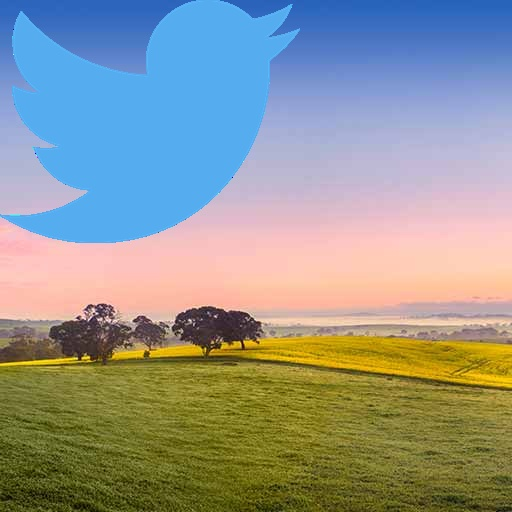
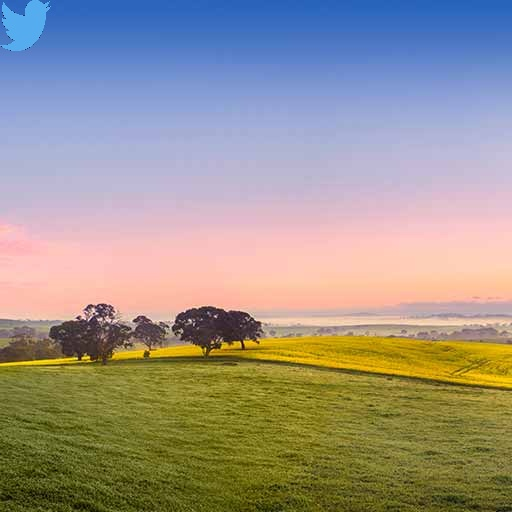
Resizing watermark image

Changed region(s): [[0.0, 0.0, 0.5938, 0.5]]

diff --git a/watermarking.py b/watermarking.py
@@ -6,6 +6,9 @@ watermark_path = input("Enter the path to the watermark: ")
 image = cv2.imread(image_path)
 watermark = cv2.imread(watermark_path)
 
+image_width, image_height = image.shape[0], image.shape[1]
+watermark = cv2.resize(watermark, (int(image_width/10), int(image_height/10)))
+
 rows, cols = watermark.shape[0], watermark.shape[1]
 roi = image[0:rows, 0:cols]
 
